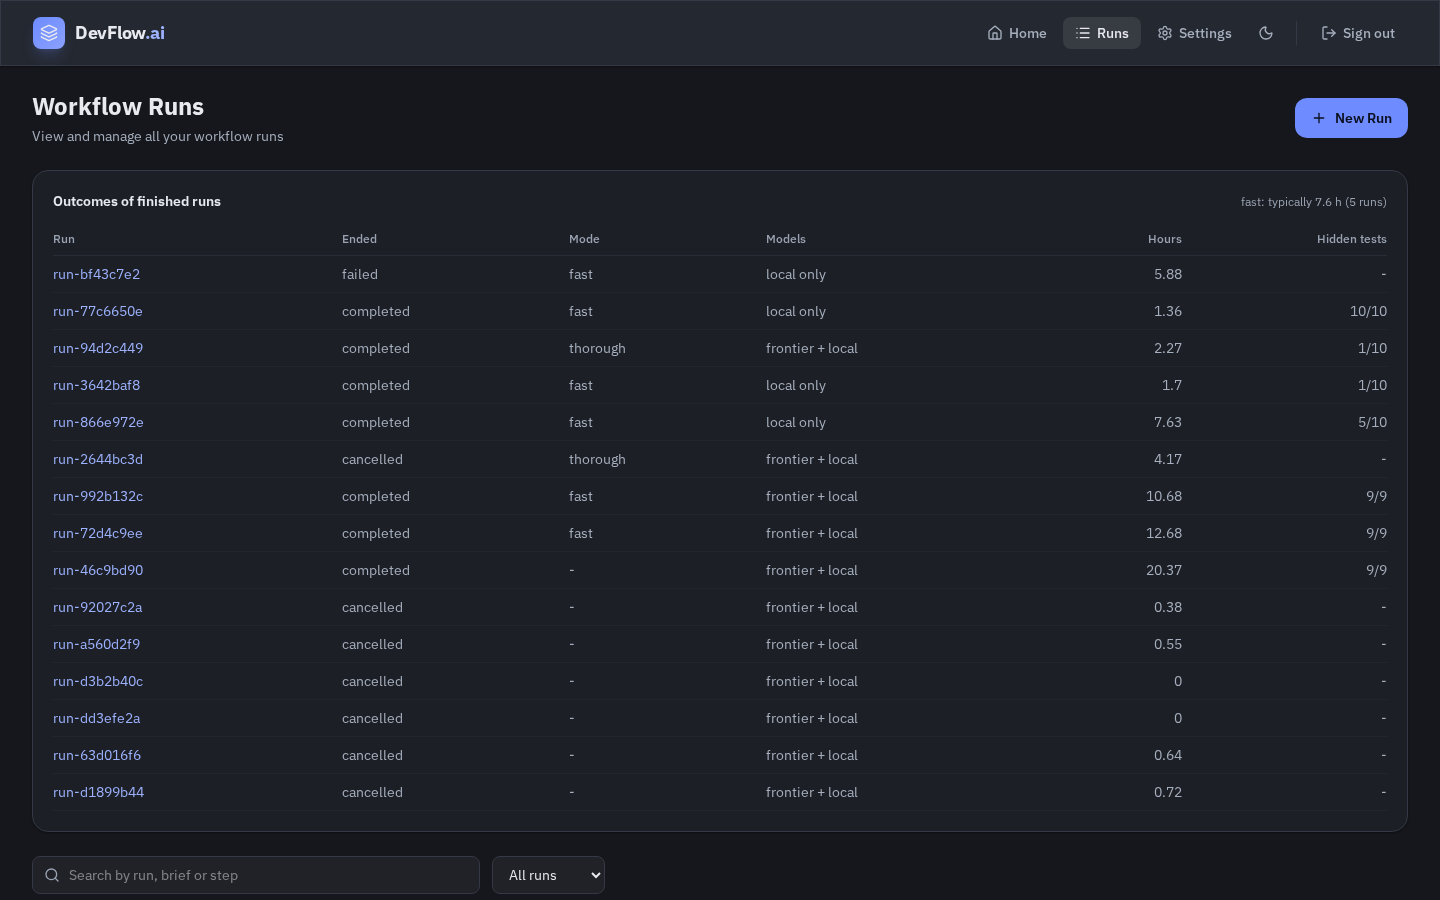
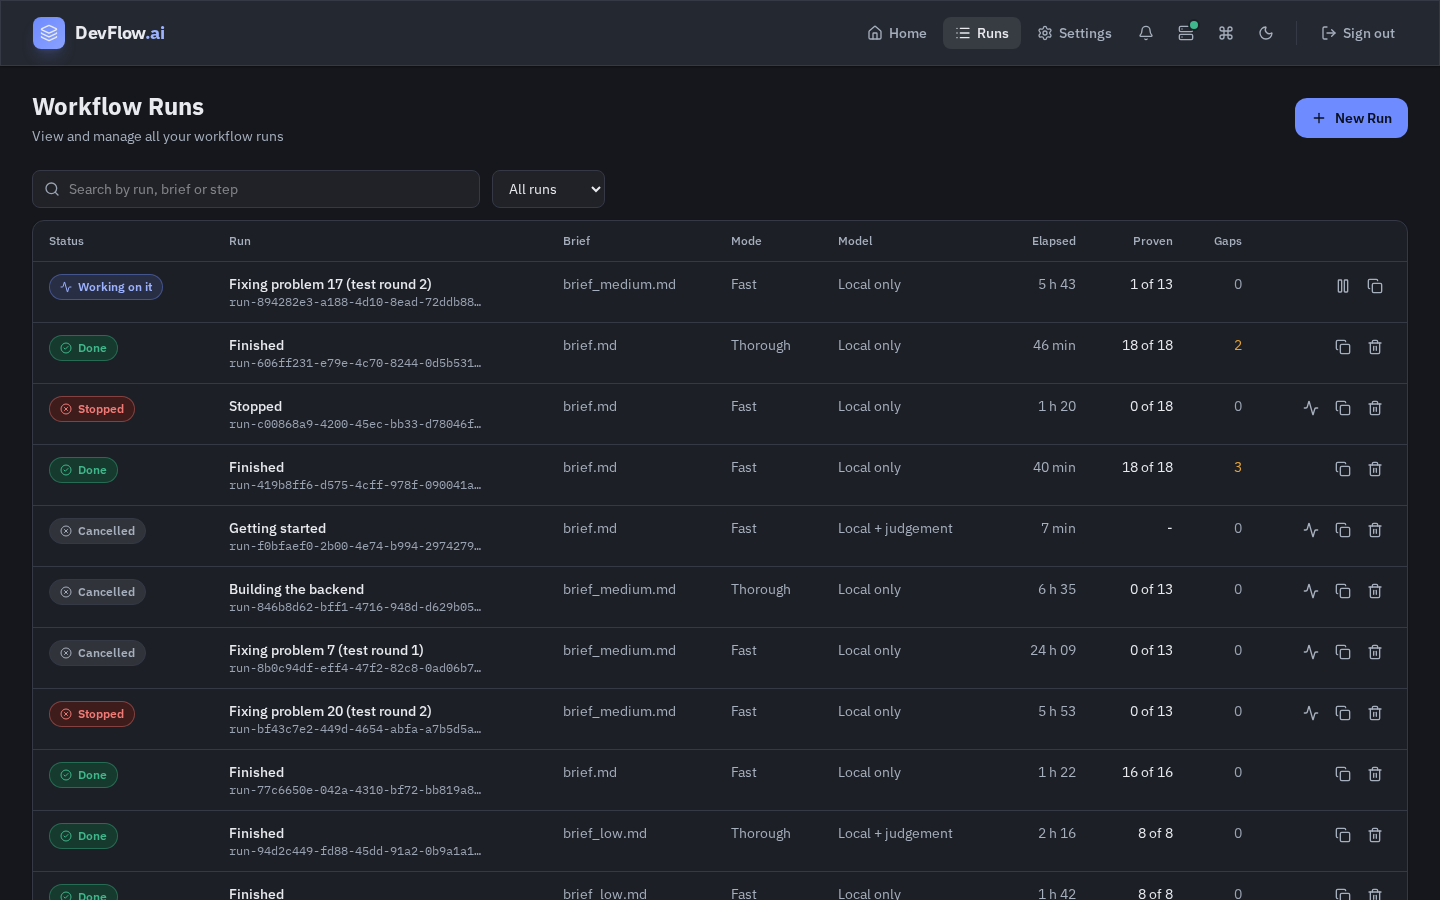
ledger: LF.29; BG.16 done - the docs/ui screenshots taken again from the live app
The app alone was rebuilt and restarted from HEAD (the worker and the run
untouched): axe 0 on every page in every theme of the deployed UI.

diff --git a/docs/improvement-plan.md b/docs/improvement-plan.md
@@ -3593,7 +3593,7 @@ review; every recommendation in it is covered here:
 | BG.13 accessibility and polling | P2 | DONE 2026-10-19 `1522cdf4` | Real tabs came with BG.4. Here: the run page pages `/logs` only while the live stream is down - an open stream replays everything after the last event it saw, so each refresh's page of the same events cost a request and gave nothing (`streamOpen` in `RunDashboard.tsx`); the activity feed's log region no longer announces every action (`aria-live=off`), and a status line announces the newest progress update instead; every disclosure row says whether it is open (`aria-expanded` on the sprint rows, the ledger and its decisions, the failure reason); the rewind select has a name; screenshots and document images load lazily; an action's detail control shows on keyboard focus (BG.8). Polling: the sprint panel's 30-second poll is gone - it reads the sprints again when the run moves to another stage, as the ledger already did; the other panels never polled, so the `/runs/{id}/summary` aggregate the plan names would replace nothing and is not built. Tests: `pages/RunDashboard.test.tsx` (the first test of the run page: no `/logs` paging once the stream is open; fails on the old page), `components/AgentActivity.test.tsx` (what a screen reader hears) |
 | BG.14 timeline scrubber / replay | P3 | DONE 2026-10-19 `b64ca7e5` | Above the activity feed, the run's span as a line (`Timeline.tsx`, `lib/timeline.ts`): a tick where each stage began, a dot where the owner answered a gate, a diamond where a direction was sent, each at its share of the run and named in words; choosing one scrolls the feed to its first entry from that moment (`focusAt` on the feed). Not built: rewind points on the line - they are read from the checkpointer only when the owner opens Rewind, and a rewind is chosen there by stage; filtering Changes to the moment - a criterion's "see the change" (BG.9) and the latest-change chip already open a commit by time. Tests: `lib/timeline.test.ts`, `components/Timeline.test.tsx` |
 | BG.15 context pressure and throughput | P3 | DONE 2026-10-19 `203bbfac` | The run page's rail has a "Model pressure" card (`ModelPressure.tsx`, `pressure` in `lib/runSummary.ts`): "Last call used 118 k of 126 k context" with a bar, red above 90 % - a call near the edge is the next to be cut; "Busy 50 % of the last 10 min"; the last reply's tokens per second and a sparkline of the hour's. Read every minute while the run is live and the tab visible. Backend: `/usage` also returns the run's model calls of its last hour (`recent_calls`: when, stage, tokens in and out, seconds; at most 300), and the slot's size comes from the server's own status (BG.5). Tests: `tests/test_a_run_s_usage_is_shown_stage_by_stage.py` (the last hour of calls; fails on the old code), `lib/runSummary.test.ts` |
-| BG.16 palette, shortcuts, cross-run compare + housekeeping | P3 | PARTLY 2026-10-19 | The palette and the shortcuts sheet came with UI-S1/S2. Housekeeping done: the dev server proxies to port 8000, where the app and its API answer (it pointed at 8001, where nothing listens); `wizardData.ts`, `DynamicWorkflowUI.tsx` and `App.css` deleted - nothing imported them; the start page names the signed-in user as the run's reviewer instead of "Product Manager". Cross-run compare came with UI-S6. Open: the `docs/ui/*-runs.png` screenshots, taken again from the live app after the next deploy |
+| BG.16 palette, shortcuts, cross-run compare + housekeeping | P3 | DONE 2026-10-19 | The palette and the shortcuts sheet came with UI-S1/S2. Housekeeping done: the dev server proxies to port 8000, where the app and its API answer (it pointed at 8001, where nothing listens); `wizardData.ts`, `DynamicWorkflowUI.tsx` and `App.css` deleted - nothing imported them; the start page names the signed-in user as the run's reviewer instead of "Product Manager". Cross-run compare came with UI-S6. The `docs/ui/` screenshots of every page in every theme were taken again from the live app after the app deploy of `c6e04398`: axe 0 on all twelve |
 | BJ one input budget per request | P1 | NOT STARTED | after BF; added 2026-10-19 from the research coverage check |
 | Part 20 two-run gate rule | P0 (process) | ADOPTED 2026-10-19 | each wave gate judged on ≥2 runs against the W.2 baselines |
 | BK release packaging failure is a completion gap | P1 | DONE 2026-10-19 `1d6a4e1` | the release files are written before `completion_gaps` is stored, and `ReleaseFiles.a_gap` (the failure text, never for a product no pack covers) joins the gaps, so the evidence page and the bench export carry it. Test `tests/test_a_release_whose_files_failed_is_completed_with_gaps.py` (2 of 3 fail on the old code). From the external review (Part 22.4, item 6c) |
@@ -4343,7 +4343,7 @@ the item: what it changes, why, and the evidence (review findings in
 | BG.13 | accessibility and polling | P2 | DONE 2026-10-19 `1522cdf4` | [BG.13](#plan-bg-13) |
 | BG.14 | timeline scrubber / replay | P3 | DONE 2026-10-19 `b64ca7e5` | [BG.14](#plan-bg-14) |
 | BG.15 | context pressure and throughput | P3 | DONE 2026-10-19 `203bbfac` | [BG.15](#plan-bg-15) |
-| BG.16 | palette, shortcuts, cross-run compare | P3 | PARTLY 2026-10-19 | [BG.16](#plan-bg-16) |
+| BG.16 | palette, shortcuts, cross-run compare | P3 | DONE 2026-10-19 | [BG.16](#plan-bg-16) |
 | BJ | one input budget per request | P1 | NOT STARTED | [BJ](#plan-bj) |
 | Part 20 | two-run gate rule | P0 (process) | ADOPTED 2026-10-19 | [Part 20](#plan-part-20) |
 | BK | release packaging failure is a completion gap | P1 | DONE 2026-10-19 `1d6a4e1` | [BK](#plan-bk) |
@@ -4390,4 +4390,4 @@ run are in `docs/monitoring-handover.md` §0 under the day.
 | LF.26 | a write's "files that import this one" note names only the importers whose import the compiler resolves to that file - measured live, writing `src/api/client.js` was told six pages under `frontend/src/` would fail to load (they import `frontend/src/api/client.js`), and the fixer rewrote the file it had just written, identically | DONE 2026-10-19 `6ffed0f` | [monitoring handover §0](monitoring-handover.md) |
 | LF.27 | deleting or moving a database file (`*.db`, `*.sqlite`, `*.sqlite3`) is refused as a database, not as "credential material", and the refusal names the cause a leftover database points at: the product keeps it outside `DATA_DIR` - measured live, a fixer with `UNIQUE constraint failed: users.username` was refused the delete as credential material and spent its next calls looking for the file, while the product's database URL was a file in the working directory | DONE 2026-10-19 `e21a5ad` | [monitoring handover §0](monitoring-handover.md) |
 | LF.28 | a reverted fix's log line also says how many tests it had made pass ("broke 1 test(s) that passed before it, and had made N pass that did not"): the snapshot after a reverted fix is not kept, so whether a whole fix should go for one broken test could not be judged - measured live, six fixes reverted, one of them a rewrite of the served page for one broken test. Observability only; whether to keep a fix that gains more than it breaks is a group-2 question with these numbers | DONE 2026-10-19 `3ffe5fb8` | [monitoring handover §0](monitoring-handover.md) |
-| LF.29 | a criterion's first pass names its measurement as what it was: a snapshot's label is "after X", "before X", "suite locked" or "accepted", and the ledger read every one as "after" - measured on the live page after the deploy, "first passed after Before Defect Fix 2 16"; it reads "first passed by the start of Fixing problem 17 (test round 2)" now | DONE 2026-10-19 | [monitoring handover §0](monitoring-handover.md) |
+| LF.29 | a criterion's first pass names its measurement as what it was: a snapshot's label is "after X", "before X", "suite locked" or "accepted", and the ledger read every one as "after" - measured on the live page after the deploy, "first passed after Before Defect Fix 2 16"; it reads "first passed by the start of Fixing problem 17 (test round 2)" now | DONE 2026-10-19 `c6e04398` | [monitoring handover §0](monitoring-handover.md) |

diff --git a/docs/monitoring-handover.md b/docs/monitoring-handover.md
@@ -137,6 +137,7 @@ A new agent, session or account starts at `docs/HANDOVER.md`: the first ten minu
     21:15 JST BG.1, BG.5, BG.6 built (the run page's tokens, "not priced", typical time and ceiling bars; `GET /api/health/server`, never a model call, with the header's server dot and Settings in tabs; `GET /runs/{id}/sprints` from the graph state). The run payload now carries `max_run_tokens`/`max_run_cost_usd`; after any API change, `npm run api:types` in `langchain-ui`. Shakedown run in defect_fix_2_11, no new defect.
     21:25 JST shakedown run: six fixes reverted so far, each for breaking tests that passed before it; defect_fix_2_11 rewrote the served front end into `src/` and was reverted for one broken test (`[AC-12]` OpenAPI at `/openapi.json`), so defect_fix_2_12 found the stub again. The ratchet reverts a whole fix for any regression and keeps no record of what it gained; the worker log now says it (LF.28). For group 2: whether a fix that gains more than it breaks is kept, with its broken tests reopened as defects - decide on these numbers. BG.3 built (a review shows its document and what changed).
     22:28 JST deployed e0c73cc into the shakedown run at a stage boundary, between model calls (group 1 complete on the backend: LF.16-LF.28, BG.1-BG.13, BG.15, UI-S1-S5; the run resumed from recovery, health 200; `/api/health/server`, `/usage`, `/sprints`, `/evidence` checked on the live app). BG.14 and UI-S6 were committed after it and need one more app + worker deploy - when the shakedown ends, before `loop.sh kpi`, which now imports the application's KPI module.
+    22:50 JST the app alone rebuilt and restarted from c6e04398 (BG.14, UI-S4's feed window and event schema, UI-S6, LF.29) - the worker and the run untouched. The deployed UI measured live: axe 0 on home, runs, settings and the run page in all three themes; screenshots in `docs/ui/` taken again. The worker still needs the deploy that brings `app.observability.run_kpis` before the next `loop.sh kpi`.
     11:35 JST deep analysis of run-846b8d62 (Thorough, local-only, 240 min, in test_round_1): reasoning 66% of output; acceptance authoring 59 of 199 model minutes over four stages; six architect/architecture-review rounds in 34 minutes; "68% redundant reads" is nearly all memory pointers, not repeated content (the measure counts a pointer as redundant). A shell builtin (`export X=1 && npm ...`) is now refused with the reason - there is no shell, so nothing carries to the next command - beside the list of programs. langchain-a3 (the resumed copy that drove from 07:11) has ended, so the original session drives again.
     12:10 JST: run-846b8d62's acceptance suite reported "the product does not start" three rounds running. Cause: the service's settings class requires `jwt_secret_key` with no default, and the suite starts it with only `PORT` and `DATA_DIR`; the model's `export JWT_SECRET_KEY=... &&` attempts were it trying to supply the value. The defect showed six lines of uvicorn's own frames, not the cause on the traceback's last line. Now the not-started problem shows where the failure began and the last lines of its output, adds a hint when a setting was missing, and every stage's environment contract says the product starts from `PORT` and `DATA_DIR` alone (a secret has a development default or is generated at first start). The contract paragraphs were tightened to stay under the stack selector's prompt ceiling.
     11:55 JST (2d94b84 deployed 11:52, run resumed): a fixer given the missing-secret cause wrote `.env` five times; the refusal named only the credential-file pattern. Both write and edit refusals now say nothing that starts the product reads such a file and the setting belongs in the settings code as a development default.

diff --git a/docs/HANDOVER.md b/docs/HANDOVER.md
@@ -313,11 +313,11 @@ test that fails on the old code:
   BG.13 (no `/logs` paging while the stream is open; the feed announces headlines only; disclosures
   say their state) and UI-S3 = BG.10 (a written brief, its criteria shown before the run, existing
   code, no orphans), BG.15 (model pressure in the rail), BG.14 (the run's timeline above the feed)
-  the BG.16 housekeeping and UI-S6 (a run's KPIs on its page; `/runs/compare`). The UI track of
-  group 1 is built. **Deployed e0c73cc at 13:28 UTC into the shakedown run (resumed); the commits
-  after it (BG.14, UI-S6) need one more app + worker deploy - do it when the shakedown run ends,
-  before `loop.sh kpi` (which now imports `app.observability.run_kpis` in the worker).** Then the
-  gate run (group 2 before/after).
+  the BG.16 housekeeping and UI-S6 (a run's KPIs on its page; `/runs/compare`). **Group 1 is
+  built.** Deployed e0c73cc (app + worker) at 13:28 UTC into the shakedown run, which resumed; the
+  app alone again at c6e04398 (13:50 UTC, UI and API only). **Before the next `loop.sh kpi`, deploy the
+  worker** (`loop.sh deploy` when the shakedown ends): `kpi.py` now imports
+  `app.observability.run_kpis`. Then the gate run (group 2 before/after).
 - **Owner, 2026-10-19: every completed fix gets an Appendix M row in `docs/improvement-plan.md`**, in
   the fix's own commit: plan items in the main table, audit fixes in M.2 (`LF.n`).
 - Gates: two brief_medium runs on the new code against the baselines (`kpi_ledger.py compare`).
